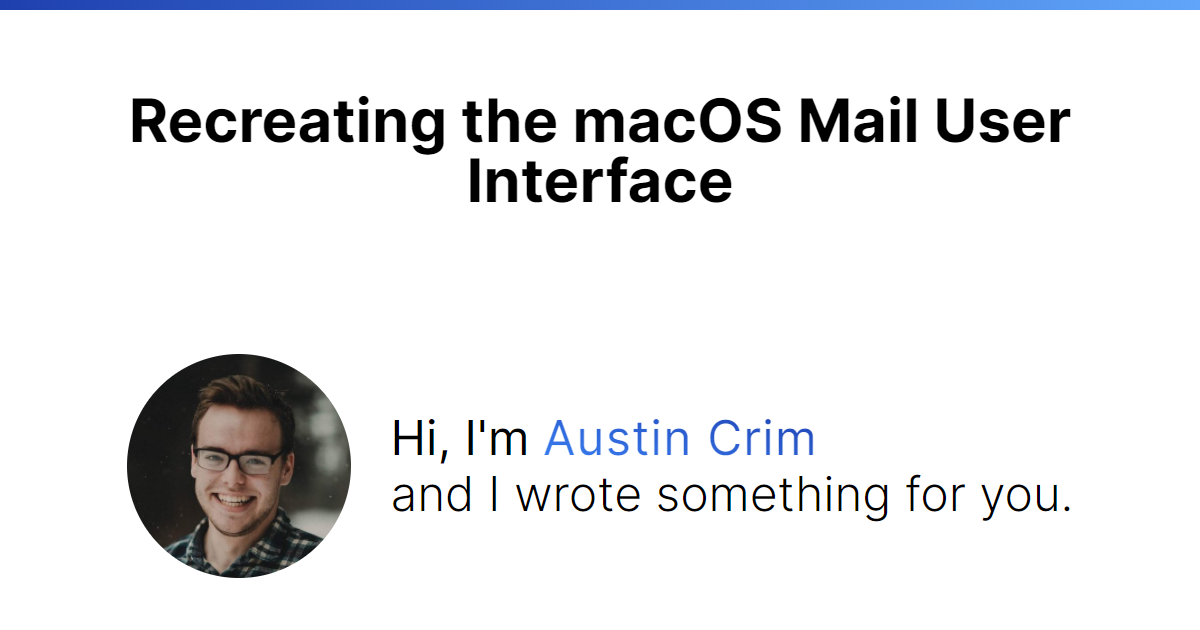
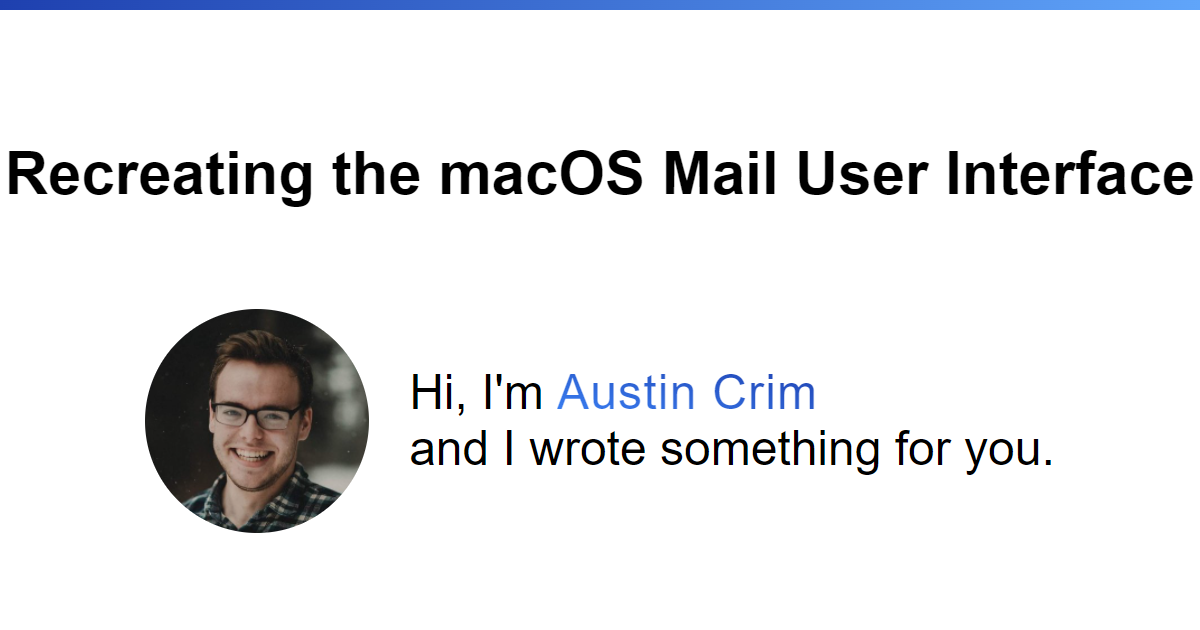
tweak images

Changed region(s): [[0.0925, 0.4825, 0.8942, 0.9349], [0.0, 0.1508, 1.0, 0.3317]]

diff --git a/src/pages/og/[slug].tsx b/src/pages/og/[slug].tsx
@@ -3,21 +3,21 @@ import { getAllSlugs, getPostBySlug } from '../../lib/posts'
 
 export default function Og({ title }) {
   return (
-    <div className="flex flex-col items-center justify-center w-[1200px] relative mx-auto h-screen gap-36">
+    <div className="flex flex-col items-center justify-center w-[1200px] relative mx-auto h-screen gap-24">
       <div className="absolute top-0 w-screen h-[10px] bg-gradient-to-r from-[rgb(30,64,175)] to-[rgb(96,165,250)]"></div>
-      <div className="mt-10 text-6xl font-bold text-center">{title}</div>
+      <div className="mt-10 text-6xl font-bold leading-[1.3] text-center">{title}</div>
       <div className="flex items-center gap-10">
         <img
           src="https://pbs.twimg.com/profile_images/1277774477099773954/cNUzQvNX_400x400.jpg"
           className="object-cover w-56 h-56 rounded-full"
         />
-        <div className="text-5xl">
+        <div className="text-5xl font-light">
           <span>Hi, I'm&nbsp;</span>
           <span className="block tracking-wide text-transparent md:inline theme-gradient bg-clip-text whitespace-nowrap">
             Austin Crim
           </span>
           <div>
-            <div className="mt-2 font-light">
+            <div className="mt-2">
               and I wrote something for you.
             </div>
           </div>

diff --git a/og-image.js b/og-image.js
@@ -1,12 +1,14 @@
 const puppeteer = require('puppeteer-core')
 const chrome = require('chrome-aws-lambda')
 const { PrismaClient } = require('@prisma/client')
+const fsSync = require('fs')
 const fs = require('fs/promises')
 const path = require('path')
 const prisma = new PrismaClient()
 
+let browser
 async function main() {
-  let browser = await puppeteer.launch({
+  browser = await puppeteer.launch({
     args: chrome.args,
     executablePath:
       'C:\\Program Files\\Google\\Chrome\\Application\\chrome.exe',
@@ -34,22 +36,20 @@ async function main() {
       clip: { x: 0, y: 0, width: 1200, height: 630 }
     })
 
-    try {
-      await fs.stat(path.join(__dirname, 'public', 'og', slug))
+    let imagePath = path.join(__dirname, 'public', 'og', `${slug}.png`)
+
+    if (fsSync.existsSync(imagePath)) {
       console.log(`skipped!`)
-    } catch (e) {
+    } else {
       if (buffer) {
-        await fs.writeFile(
-          path.join(__dirname, 'public', 'og', `${slug}.png`),
-          buffer
-        )
-        console.log(`wrote ${slug}.png`)
+        await fs.writeFile(imagePath, buffer)
+        console.log(`wrote ${imagePath}`)
       }
     }
-
     await page.close()
   })
-  await browser.close()
 }
 
-main().then(() => console.log('done'))
+main().then(() => {
+  console.log('done')
+})
